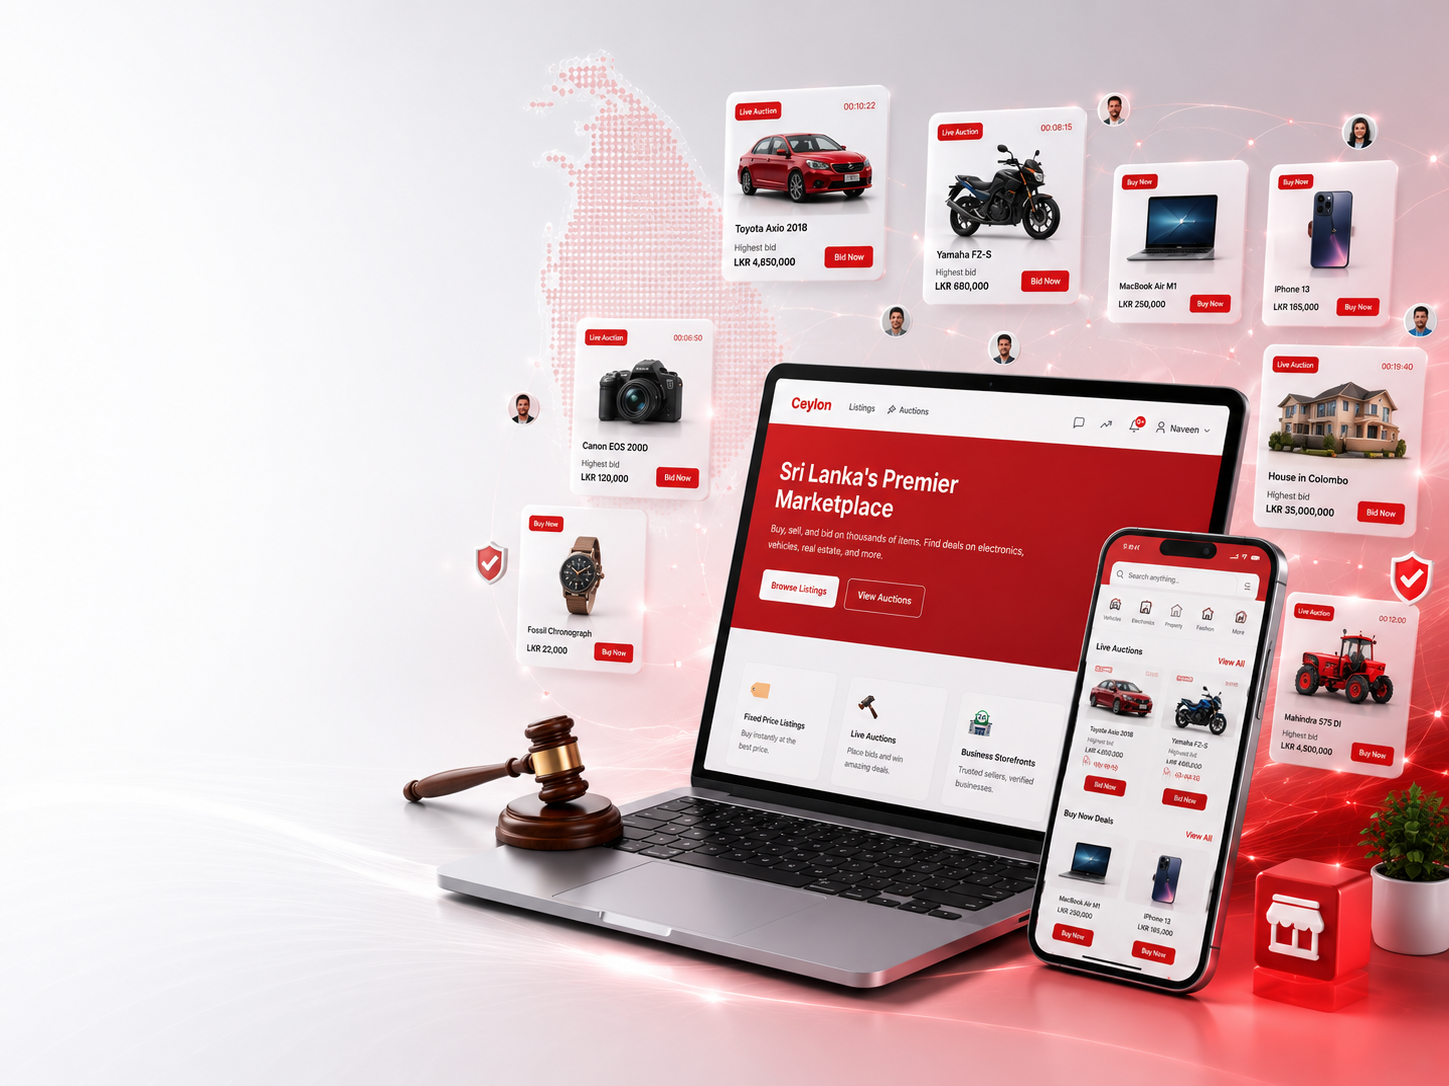
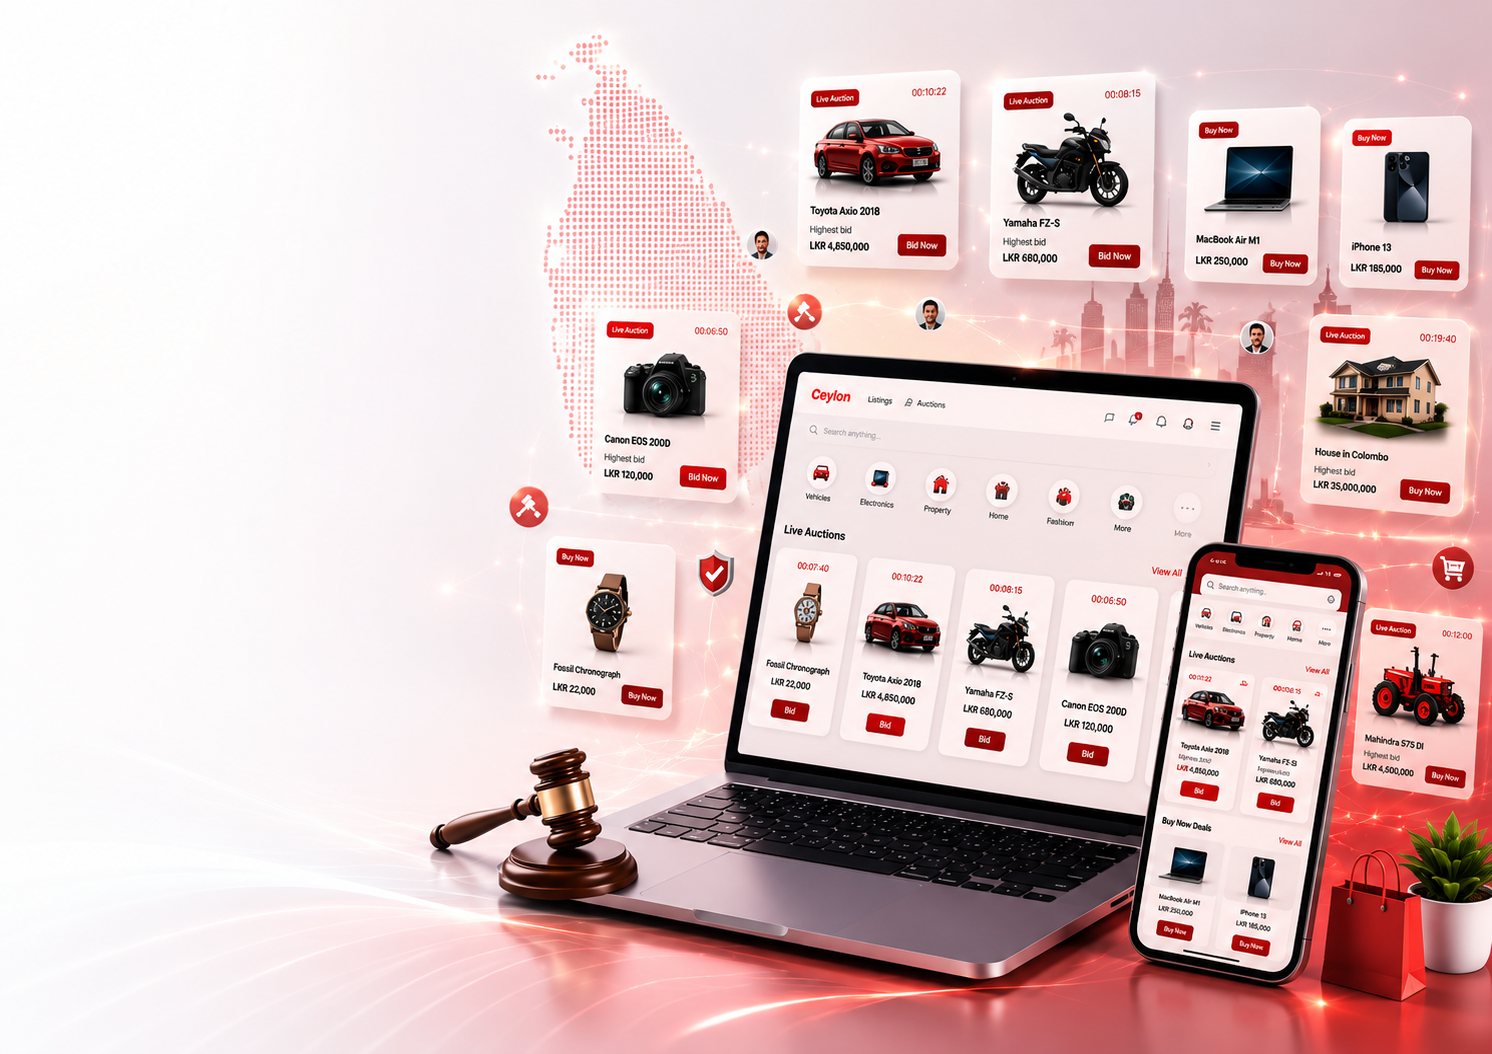
fix: update marketplace collection image alt text and adjust styling

diff --git a/src/components/auth/auth-shell.tsx b/src/components/auth/auth-shell.tsx
@@ -55,10 +55,10 @@ export function AuthShell({
         <aside className="relative m-3 hidden min-h-[calc(100dvh-1.5rem)] overflow-hidden rounded-3xl bg-gray-900 lg:block">
           <Image
             src="/images/auth/marketplace-collection.jpg"
-            alt="A camera, ceramic vase, trainers, woven bag, and wooden stool arranged as marketplace finds"
+            alt="Ceylon Marketplace shown on a laptop and phone, surrounded by live auction and buy-now listing cards for vehicles, electronics, and real estate"
             fill
             sizes="(min-width: 1024px) 45vw, 0px"
-            className="object-cover"
+            className="object-cover object-right"
           />
           <div className="absolute inset-0 bg-gradient-to-t from-gray-950/80 via-gray-950/5 to-transparent" />
           <div className="absolute inset-x-0 bottom-0 p-8 text-white xl:p-12">
